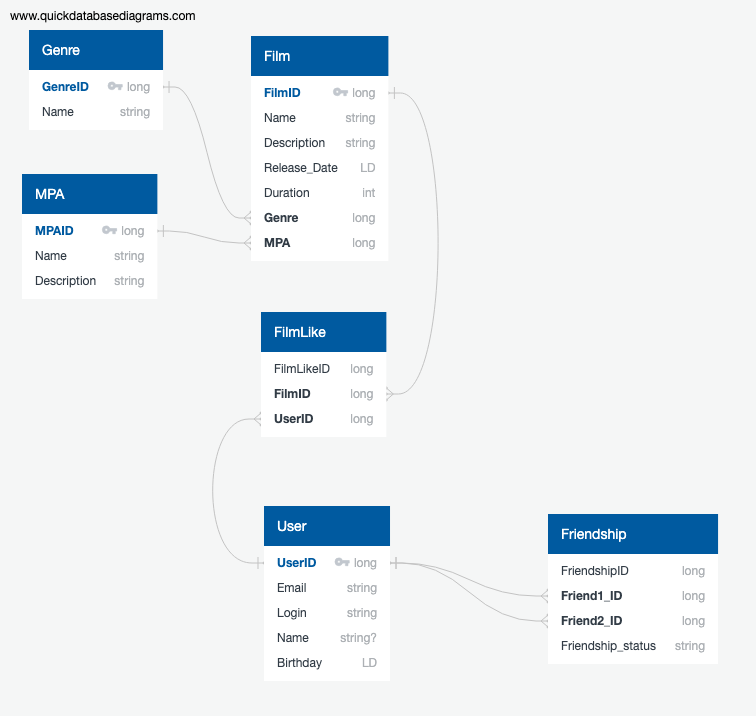
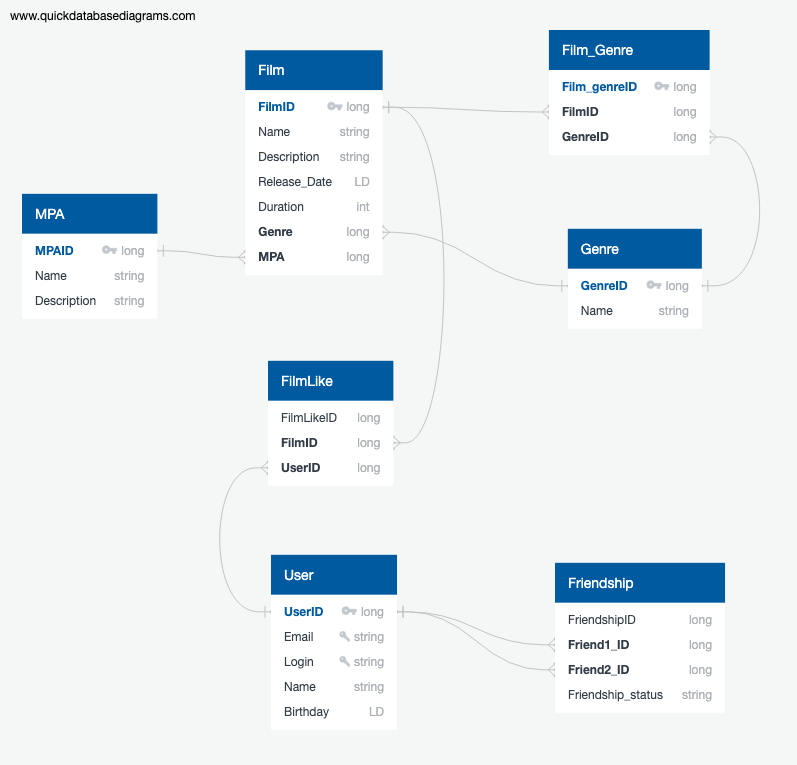
ТЗ11правки

diff --git a/README.md b/README.md
@@ -1,21 +1,30 @@
 # java-filmorate
 Template repository for Filmorate project.
-Проект базы данных для приложения 
-![](/Users/aguna/Documents/java-filmorate/QuickDBD-export.png)
 
-В таблице Film хранятся данные о фильмах. 
-Таблица User хранит информацию о пользователях.
-В таблице Genre хранятся возможные названия жанров фильмов. В таблице Film есть внешний ключ к таблице Genre через GenreID.
-В таблице MPA хранится рейтинг Ассоциации кинокомпаний (название и пояснение). В таблице фильм есть внешний ключ к таблице MPA через MPAID.
-Чтобы хранить информацию о рейтинге фильма существует таблица FilmLike. Она хранит в себе информацию о том, какой пользователь, к какому фильму поставил лайк. В этой таблице есть 2 внешних ключа: к таблице Film через FilmID и к таблице User через UserID.
-Чтобы хранить информацию о дружбе пользователей существует таблица Friendship. Информация хранится в виде ID пользователей, которые дружат и статуса дружбы: если пользователь отправил запрос на добавление в друзья, но не получил подтверждение статус не подтвержденный, а если получил, то подтвержденный. Эта таблица имеет 2 внешних ключа к таблице User через UserID.
+# Проект базы данных для приложения 
+![](https://github.com/AleksandraBoycova/java-filmorate/blob/database-project/QuickDBD-export.png)
+В таблице **Film** хранятся данные о фильмах. 
 
-Примеры запросов для основных операций приложения: 
+Таблица **User** хранит информацию о пользователях. Поля *Email* и *Login* уникальны.
+
+В таблице **Genre** хранятся возможные названия жанров фильмов. В таблице **Film** есть внешний ключ к таблице **Genre** через *GenreID*.
+
+В таблице **MPA** хранится рейтинг Ассоциации кинокомпаний (название и пояснение). В таблице фильм есть внешний ключ к таблице **MPA** через *MPAID*.
+
+Чтобы хранить информацию о рейтинге фильма существует таблица **FilmLike**. Она хранит в себе информацию о том, какой пользователь, к какому фильму поставил лайк. В этой таблице есть 2 внешних ключа: к таблице **Film** через *FilmID* и к таблице **User** через *UserID*.
+
+Чтобы хранить информацию о дружбе пользователей существует таблица **Friendship**. Информация хранится в виде ID пользователей, которые дружат и статуса дружбы: если пользователь отправил запрос на добавление в друзья, но не получил подтверждение статус не подтвержденный, а если получил, то подтвержденный. Эта таблица имеет 2 внешних ключа к таблице **User** через *UserID*.
+
+# Примеры запросов для основных операций приложения: 
+```
 SELECT *
 FROM Film
 WHERE FilmID = 1(найти фильм с ID 1);
+```
 
+```
 SELECT *
 FROM User
 WHERE UserID = 1(найти фильм с ID 1);
+```
 
